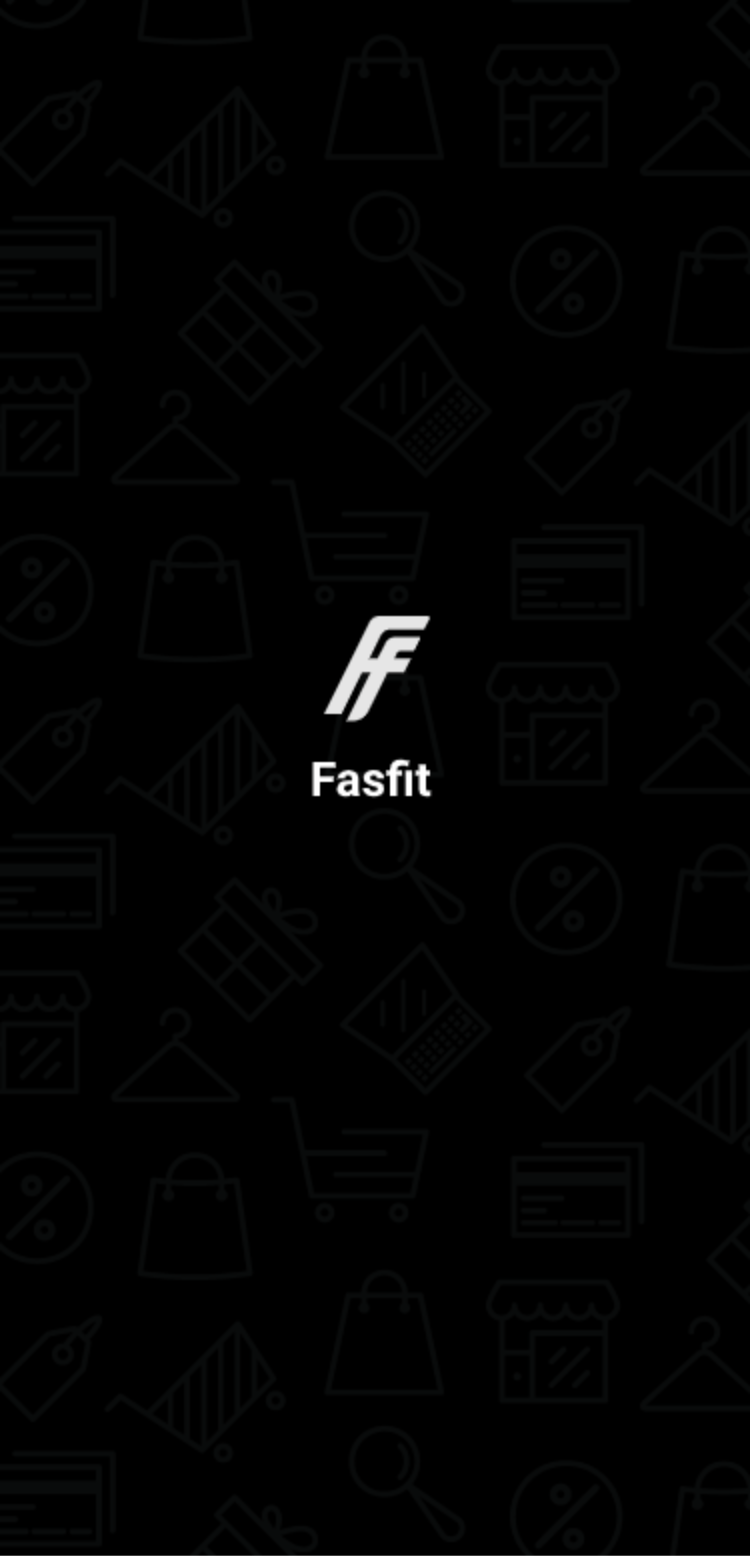
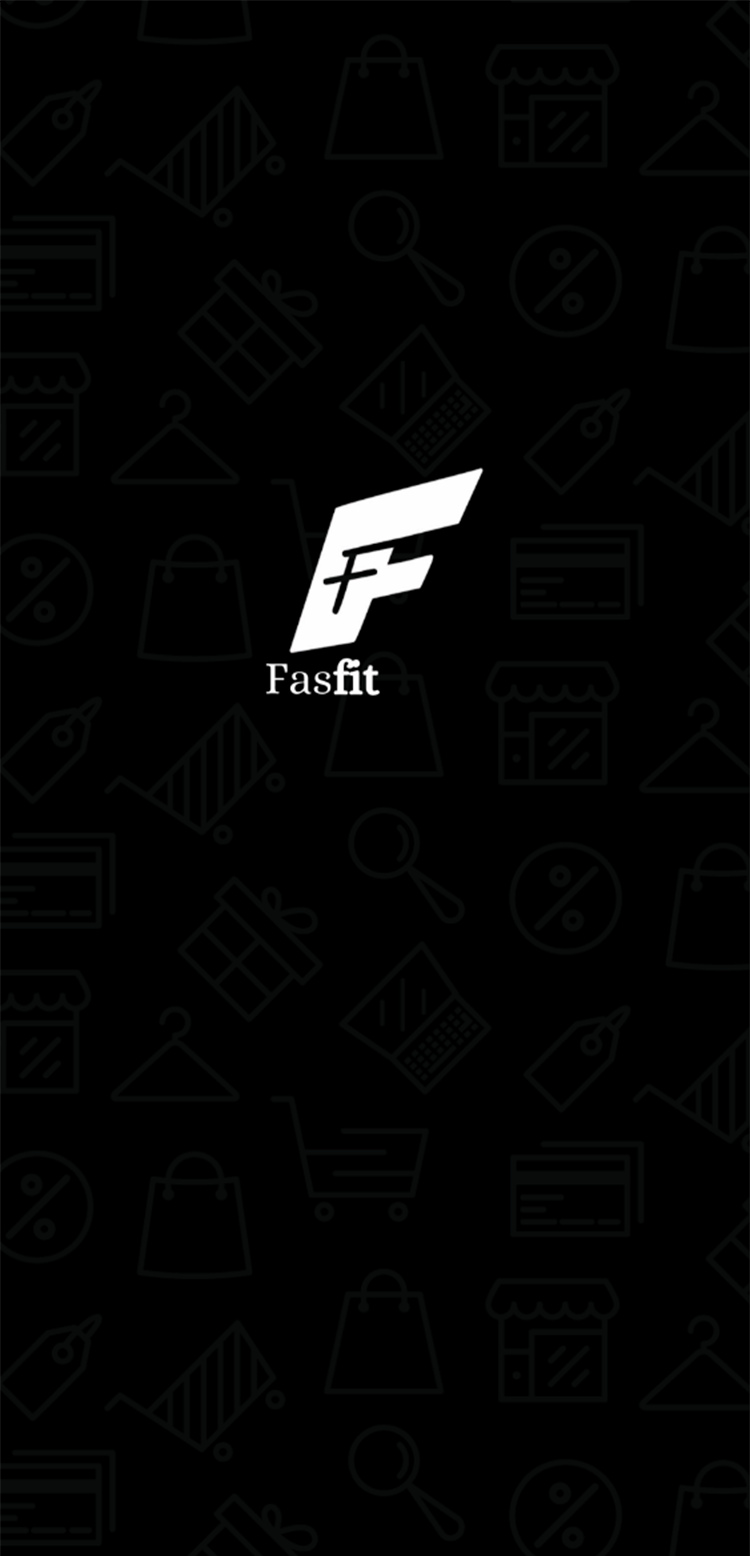
Fixed welcome

Changed region(s): [[0.3373, 0.2776, 0.644, 0.4627], [0.3987, 0.4627, 0.5827, 0.5244]]

diff --git a/src/screens/Main/welcome/WelcomeStyle.js b/src/screens/Main/welcome/WelcomeStyle.js
@@ -27,8 +27,8 @@ export const styles = StyleSheet.create({
     marginTop: 0.06 * utils.deviceHeight,
     marginLeft: 20,
     marginRight: 20,
-    fontSize: 16 * utils.widthRatio, 
-    fontWeight: '200',
+    fontSize: 20 * utils.widthRatio, 
+    fontWeight: '400',
     textAlign: 'center',
     alignSelf: 'center'
   },
@@ -36,7 +36,7 @@ export const styles = StyleSheet.create({
   welcomeSubTitleLabel: {
     color: 'black', 
     marginTop: 0.03 * utils.deviceHeight,
-    fontSize: 16 * utils.widthRatio, 
+    fontSize: 20 * utils.widthRatio, 
     fontWeight: 'bold',
     alignSelf: 'center'
   },
@@ -106,4 +106,14 @@ export const styles = StyleSheet.create({
     fontSize: 16 * utils.widthRatio,
     fontWeight: '300'
   },
+
+  fasfittitleImage: {
+    marginTop: 0.08 * utils.deviceHeight,
+    height: 56 * utils.widthRatio,
+    resizeMode: 'contain',
+    alignItems: 'center',
+    justifyContent: 'center',
+    alignSelf: 'center'
+  },
+
 });

diff --git a/src/screens/Main/welcome/Welcome.js b/src/screens/Main/welcome/Welcome.js
@@ -15,6 +15,7 @@ export default class Welcome extends Component {
     super(props);
     this.state = {
       welcome_background: require('../../../../assets/image/welcome_background.png'),
+      fasfit_title_img: require('../../../../assets/image/fasfit_title.png'),
     }
   }
 
@@ -40,7 +41,7 @@ export default class Welcome extends Component {
       <StyleProvider style={getTheme(theme)}>
         <Container>
           <View style={styles.up_content}>
-            <Label style={styles.welcomeTitleLabel}>Fasfit</Label>
+            <Image style={styles.fasfittitleImage} source={this.state.fasfit_title_img} />
             <Label style={styles.welcomeContentLabel}>"One is never over-dressed or under-dressed with a Little Black Dress."</Label>
             <Label style={styles.welcomeSubTitleLabel}>Karl Lagerfeld</Label>
           </View>
